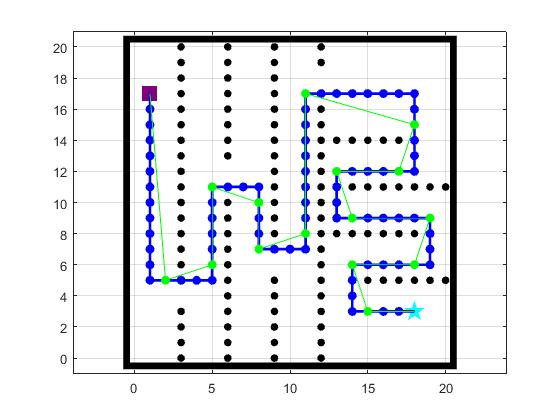
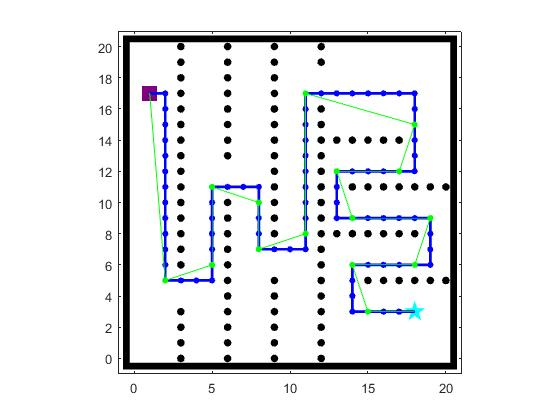
ref

diff --git a/common/modifyPath.m b/common/modifyPath.m
@@ -13,7 +13,7 @@ while it <= size(pathCoords,1) - 2
     violation = zeros(1,Model.Obsts.count);
     for k = 1:Model.Obsts.count
         dd = sqrt((X - Model.Obsts.x(k)).^2+(Y - Model.Obsts.y(k)).^2);
-        v = max(1-dd/(Model.Obsts.r),0);
+        v = max(1-dd/(2*Model.Obsts.r),0);
         violation(k) = mean(v);
     end
     Violation = any(violation);

diff --git a/AStar/RUN_Astar.m b/AStar/RUN_Astar.m
@@ -11,7 +11,7 @@ addpath('..\common');
 
 %% settings
 Model.expandMethod = 'heading'; % random or heading
-Model.distType = 'manhattan'; % euclidean or manhattan;
+Model.distType = 'euclidean'; % euclidean or manhattan;
 Model.adjType = '8adj'; % 4adj or 8adj
 
 %% create Map and Model

diff --git a/README.md b/README.md
@@ -7,11 +7,18 @@ Including heuristic search and incremental heuristic search methods.
 - LPA* (Life Long Planning A*)
 - D*Lite (With Optimized Version)
 
+---
 ## Run
 - Go into the methods directory.
 - Run the **RUN_[Methods_name].m** file
 
-## Astar Settings
+## General
+Apart from each path planning method's directory, there are two general directories:
+- **common**: common functionalities used in all planning methods
+- **models**: functions for creating and saving models (configurations). 
+
+---
+## Common Settings
 can change this setting in the Run_[method].m file 
 - distance type: **Model.distType** ('euclidean' or 'manhattan')
 - distance type: **Model.adjType** ('4adj' or '8adj')
@@ -20,6 +27,7 @@ can change this setting in the Run_[method].m file
   - 'heading': based on distance and heading
 - create_model_method: 'from_map_file', 'from_samples', 'from_custom'
 
+--- 
 ## Configuration - Models
 Initial configuration includes:
 - Map (free nodes)
@@ -37,11 +45,11 @@ You can set the method in the RUn_p[method].m file.
 
 To change the configuration in *from_custom* method, you can edit the **createModelBase.m** file in **models** directory.
 
-## General
-Apart from each path planning method's directory, there are two general directories:
-- **common**: common functionalities used in all planning methods
-- **models**: functions for creating and saving models (configurations). 
+---
+## A*
+Includes final path modification (green path in the simulation pictures).
 
+---
 ## Simulations
 ### Astar
 <table style="padding:10px">
